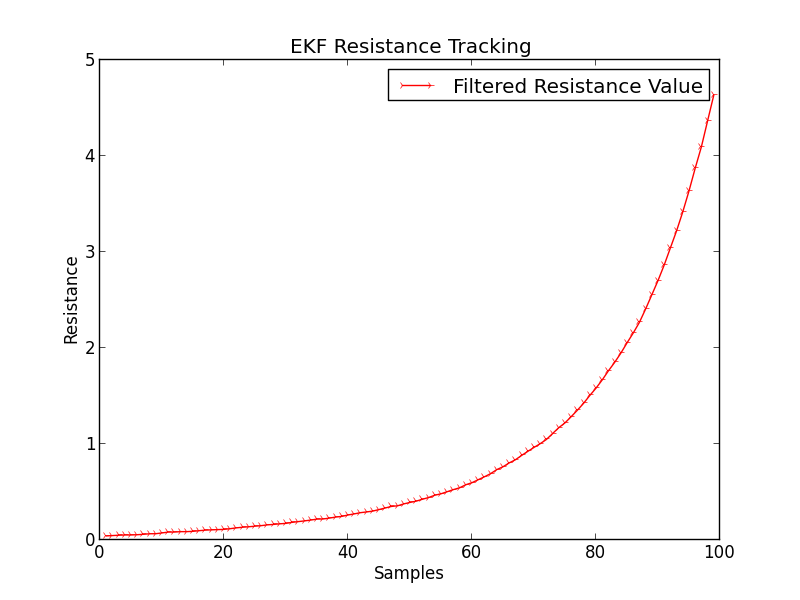
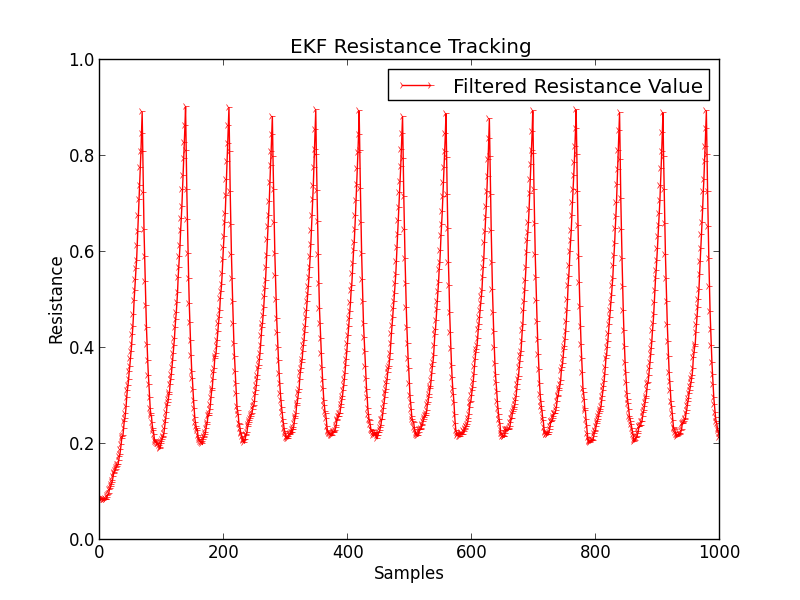
Interesting example of adding a big discontinuity

diff --git a/sensors.py b/sensors.py
@@ -13,6 +13,8 @@ class Voltmeter():
 		"""
 		noise = np.random.normal(self.noiseMean,self.noiseSTD,1)
 		self.prevData = math.pow(self.prevData,1.01); #state transfer is xi = (xi-1)^1.01 
+		if(self.prevData > 100):
+			self.prevData = 10.0;
 		return self.prevData + noise[0]
 
 

diff --git a/ekf.py b/ekf.py
@@ -125,7 +125,7 @@ class ExtendedKalman():
 
 
 #variables governing the simulation
-numSamples = 100
+numSamples = 1000
 
 #our sensor simulators ... voltmeter and ammeter
 voltmeter = sensors.Voltmeter(0,3)
